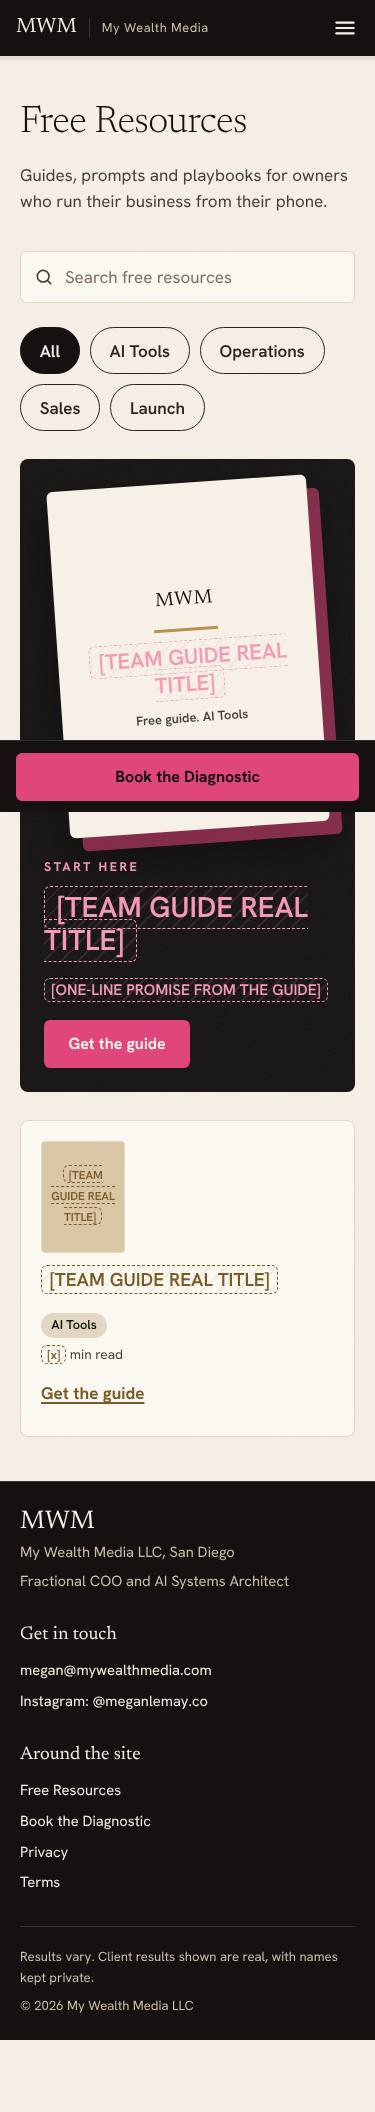
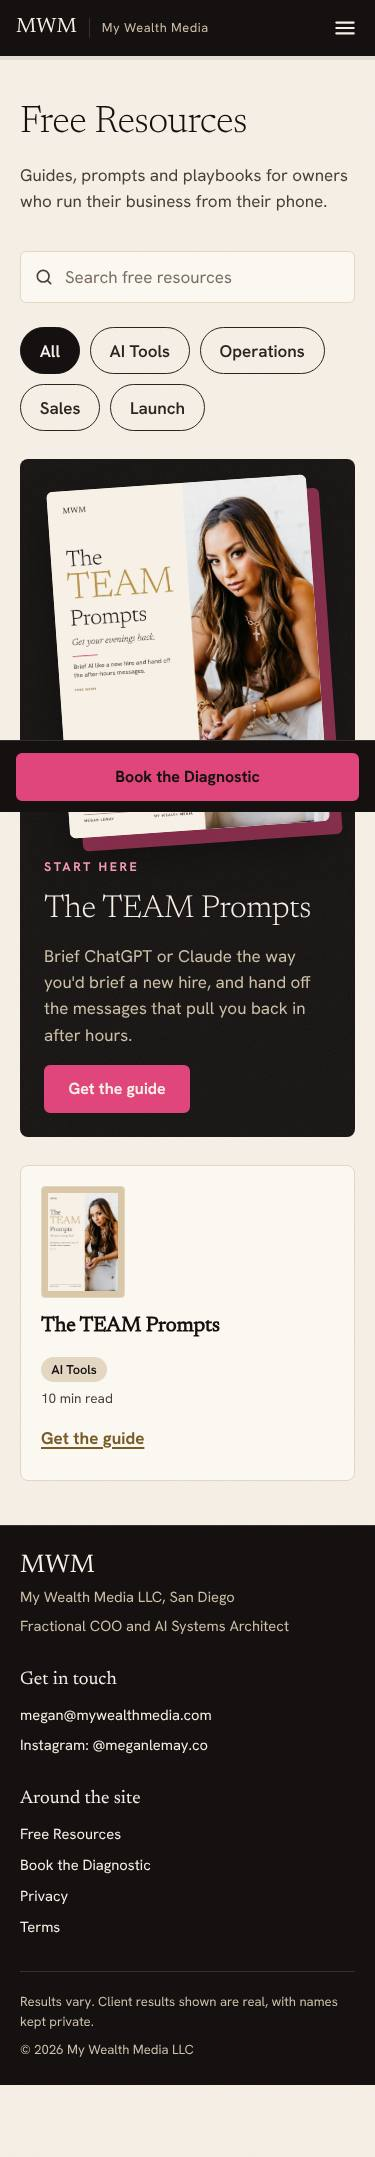
Hero photo is now the smiling portrait; story photo regenerated at full resolution
Claude-Session: https://claude.ai/code/session_01HukyzYBk3N6XevDcXCSTAn

diff --git a/frontend/public/index.html b/frontend/public/index.html
@@ -19,7 +19,7 @@
   <link rel="apple-touch-icon" href="/assets/favicon-180.png">
   <link rel="preload" href="/assets/fonts/newsreader-latin-300-normal.woff2" as="font" type="font/woff2" crossorigin>
   <link rel="preload" href="/assets/fonts/hanken-grotesk-latin-400-normal.woff2" as="font" type="font/woff2" crossorigin>
-  <link rel="stylesheet" href="/css/site.css?v=6524322">
+  <link rel="stylesheet" href="/css/site.css?v=6631143">
   
 </head>
 <body class="home">
@@ -74,7 +74,7 @@
   <div class="hero2-photo" aria-hidden="true">
     <picture>
       <source srcset="/assets/img/megan-hero-tall.webp" type="image/webp">
-      <img src="/assets/img/megan-hero-tall.jpg" width="1000" height="1500" alt="" fetchpriority="high">
+      <img src="/assets/img/megan-hero-tall.jpg" width="1333" height="2000" alt="" fetchpriority="high">
     </picture>
   </div>
   <div class="wrap hero2-wrap">
@@ -245,7 +245,7 @@
   <div class="story2-photo" aria-hidden="true">
     <picture>
       <source srcset="/assets/img/megan-story-sq.webp" type="image/webp">
-      <img src="/assets/img/megan-story-sq.jpg" width="900" height="900" alt="" loading="lazy">
+      <img src="/assets/img/megan-story-sq.jpg" width="1333" height="1333" alt="" loading="lazy">
     </picture>
   </div>
   <div class="story2-text">
@@ -407,7 +407,7 @@
   <a class="btn btn-primary" href="/diagnostic/">Book the Diagnostic</a>
 </div>
 
-<script src="/js/site.js?v=6524322" defer></script>
-<script src="/js/forms.js?v=6524322" defer></script><script src="/js/quiz.js?v=6524322" defer></script>
+<script src="/js/site.js?v=6631143" defer></script>
+<script src="/js/forms.js?v=6631143" defer></script><script src="/js/quiz.js?v=6631143" defer></script>
 </body>
 </html>

diff --git a/site/pages/index.html b/site/pages/index.html
@@ -10,7 +10,7 @@ scripts: <script src="/js/forms.js?v={{V}}" defer></script><script src="/js/quiz
   <div class="hero2-photo" aria-hidden="true">
     <picture>
       <source srcset="/assets/img/megan-hero-tall.webp" type="image/webp">
-      <img src="/assets/img/megan-hero-tall.jpg" width="1000" height="1500" alt="" fetchpriority="high">
+      <img src="/assets/img/megan-hero-tall.jpg" width="1333" height="2000" alt="" fetchpriority="high">
     </picture>
   </div>
   <div class="wrap hero2-wrap">
@@ -181,7 +181,7 @@ scripts: <script src="/js/forms.js?v={{V}}" defer></script><script src="/js/quiz
   <div class="story2-photo" aria-hidden="true">
     <picture>
       <source srcset="/assets/img/megan-story-sq.webp" type="image/webp">
-      <img src="/assets/img/megan-story-sq.jpg" width="900" height="900" alt="" loading="lazy">
+      <img src="/assets/img/megan-story-sq.jpg" width="1333" height="1333" alt="" loading="lazy">
     </picture>
   </div>
   <div class="story2-text">

diff --git a/frontend/public/resources/index.html b/frontend/public/resources/index.html
@@ -19,7 +19,7 @@
   <link rel="apple-touch-icon" href="/assets/favicon-180.png">
   <link rel="preload" href="/assets/fonts/newsreader-latin-300-normal.woff2" as="font" type="font/woff2" crossorigin>
   <link rel="preload" href="/assets/fonts/hanken-grotesk-latin-400-normal.woff2" as="font" type="font/woff2" crossorigin>
-  <link rel="stylesheet" href="/css/site.css?v=6524322">
+  <link rel="stylesheet" href="/css/site.css?v=6631143">
   
 </head>
 <body class="">
@@ -159,7 +159,7 @@
   <a class="btn btn-primary" href="/diagnostic/">Book the Diagnostic</a>
 </div>
 
-<script src="/js/site.js?v=6524322" defer></script>
-<script src="/js/resources.js?v=6524322" defer></script>
+<script src="/js/site.js?v=6631143" defer></script>
+<script src="/js/resources.js?v=6631143" defer></script>
 </body>
 </html>

diff --git a/frontend/public/resources/team-prompts-guide/index.html b/frontend/public/resources/team-prompts-guide/index.html
@@ -19,7 +19,7 @@
   <link rel="apple-touch-icon" href="/assets/favicon-180.png">
   <link rel="preload" href="/assets/fonts/newsreader-latin-300-normal.woff2" as="font" type="font/woff2" crossorigin>
   <link rel="preload" href="/assets/fonts/hanken-grotesk-latin-400-normal.woff2" as="font" type="font/woff2" crossorigin>
-  <link rel="stylesheet" href="/css/site.css?v=6524322">
+  <link rel="stylesheet" href="/css/site.css?v=6631143">
   
 </head>
 <body class="">
@@ -145,7 +145,7 @@
   <a class="btn btn-primary" href="/diagnostic/">Book the Diagnostic</a>
 </div>
 
-<script src="/js/site.js?v=6524322" defer></script>
-<script src="/js/forms.js?v=6524322" defer></script>
+<script src="/js/site.js?v=6631143" defer></script>
+<script src="/js/forms.js?v=6631143" defer></script>
 </body>
 </html>

diff --git a/frontend/public/404.html b/frontend/public/404.html
@@ -19,7 +19,7 @@
   <link rel="apple-touch-icon" href="/assets/favicon-180.png">
   <link rel="preload" href="/assets/fonts/newsreader-latin-300-normal.woff2" as="font" type="font/woff2" crossorigin>
   <link rel="preload" href="/assets/fonts/hanken-grotesk-latin-400-normal.woff2" as="font" type="font/woff2" crossorigin>
-  <link rel="stylesheet" href="/css/site.css?v=6524322">
+  <link rel="stylesheet" href="/css/site.css?v=6631143">
   
 </head>
 <body class="">
@@ -118,7 +118,7 @@
   <a class="btn btn-primary" href="/diagnostic/">Book the Diagnostic</a>
 </div>
 
-<script src="/js/site.js?v=6524322" defer></script>
+<script src="/js/site.js?v=6631143" defer></script>
 
 </body>
 </html>

diff --git a/frontend/public/diagnostic/index.html b/frontend/public/diagnostic/index.html
@@ -19,7 +19,7 @@
   <link rel="apple-touch-icon" href="/assets/favicon-180.png">
   <link rel="preload" href="/assets/fonts/newsreader-latin-300-normal.woff2" as="font" type="font/woff2" crossorigin>
   <link rel="preload" href="/assets/fonts/hanken-grotesk-latin-400-normal.woff2" as="font" type="font/woff2" crossorigin>
-  <link rel="stylesheet" href="/css/site.css?v=6524322">
+  <link rel="stylesheet" href="/css/site.css?v=6631143">
   
 </head>
 <body class="">
@@ -176,7 +176,7 @@
   <a class="btn btn-primary" href="/diagnostic/">Book the Diagnostic</a>
 </div>
 
-<script src="/js/site.js?v=6524322" defer></script>
+<script src="/js/site.js?v=6631143" defer></script>
 
 </body>
 </html>

diff --git a/frontend/public/privacy/index.html b/frontend/public/privacy/index.html
@@ -19,7 +19,7 @@
   <link rel="apple-touch-icon" href="/assets/favicon-180.png">
   <link rel="preload" href="/assets/fonts/newsreader-latin-300-normal.woff2" as="font" type="font/woff2" crossorigin>
   <link rel="preload" href="/assets/fonts/hanken-grotesk-latin-400-normal.woff2" as="font" type="font/woff2" crossorigin>
-  <link rel="stylesheet" href="/css/site.css?v=6524322">
+  <link rel="stylesheet" href="/css/site.css?v=6631143">
   
 </head>
 <body class="">
@@ -140,7 +140,7 @@
   <a class="btn btn-primary" href="/diagnostic/">Book the Diagnostic</a>
 </div>
 
-<script src="/js/site.js?v=6524322" defer></script>
+<script src="/js/site.js?v=6631143" defer></script>
 
 </body>
 </html>

diff --git a/frontend/public/terms/index.html b/frontend/public/terms/index.html
@@ -19,7 +19,7 @@
   <link rel="apple-touch-icon" href="/assets/favicon-180.png">
   <link rel="preload" href="/assets/fonts/newsreader-latin-300-normal.woff2" as="font" type="font/woff2" crossorigin>
   <link rel="preload" href="/assets/fonts/hanken-grotesk-latin-400-normal.woff2" as="font" type="font/woff2" crossorigin>
-  <link rel="stylesheet" href="/css/site.css?v=6524322">
+  <link rel="stylesheet" href="/css/site.css?v=6631143">
   
 </head>
 <body class="">
@@ -137,7 +137,7 @@
   <a class="btn btn-primary" href="/diagnostic/">Book the Diagnostic</a>
 </div>
 
-<script src="/js/site.js?v=6524322" defer></script>
+<script src="/js/site.js?v=6631143" defer></script>
 
 </body>
 </html>

diff --git a/frontend/public/css/site.css b/frontend/public/css/site.css
@@ -466,7 +466,7 @@ button,input,select,textarea{font:inherit;color:inherit}
 @media (min-width:900px){
   .hero2{min-height:min(88vh,860px);display:flex;align-items:center}
   .hero2-photo{position:absolute;top:0;right:0;bottom:0;width:44%;margin:0;aspect-ratio:auto}
-  .hero2-photo img{object-position:60% 15%}
+  .hero2-photo img{object-position:50% 0%}
   .hero2-photo::after{content:"";position:absolute;left:0;top:0;bottom:0;width:28%;background:linear-gradient(90deg,var(--cream),rgba(246,240,230,0))}
   .hero2-wrap{width:100%}
   .hero2 h1{max-width:70%}
